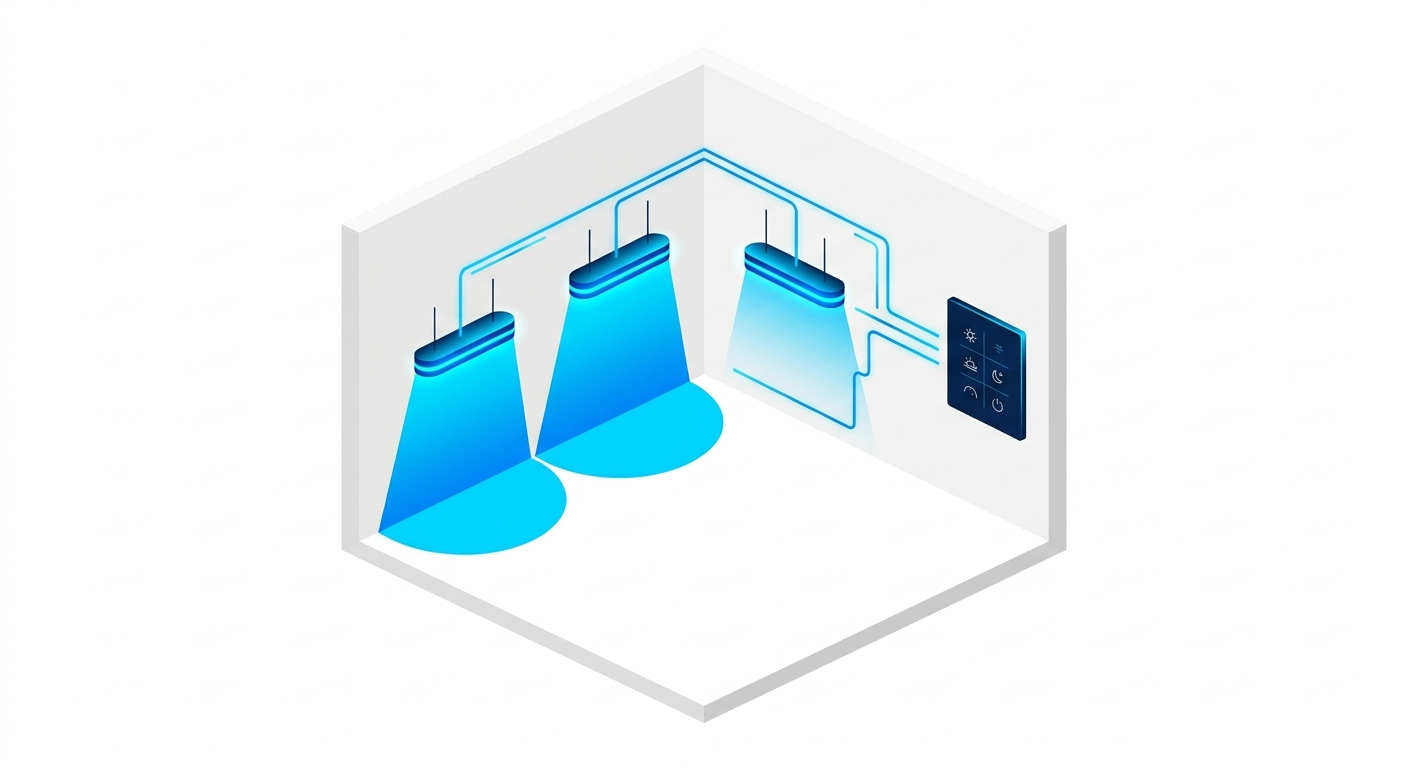
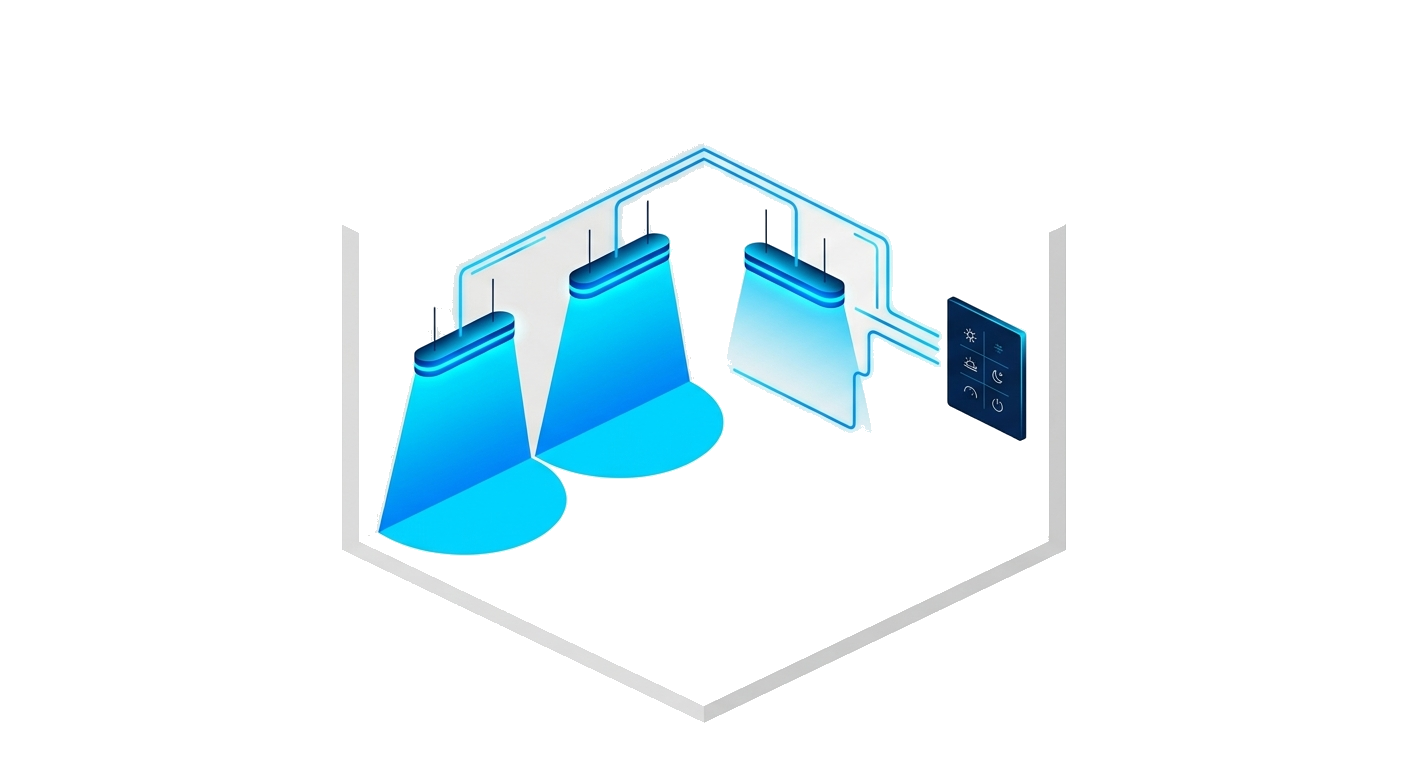
feat: add energy images, remove white backgrounds from cartoon illustrations

Changed region(s): [[0.25, 0.0938, 0.5, 0.7188], [0.5938, 0.5625, 0.625, 0.5938]]

diff --git a/scripts/remove_bg.py b/scripts/remove_bg.py
@@ -1,0 +1,73 @@
+#!/usr/bin/env python3
+"""Remove white/near-white backgrounds from cartoon PNG images via BFS flood-fill from edges."""
+
+import sys
+from pathlib import Path
+from collections import deque
+from PIL import Image
+import numpy as np
+
+TOLERANCE = 30  # 0-255: how far from pure white still counts as background
+
+def remove_white_bg(src: Path, dst: Path, tolerance: int = TOLERANCE) -> None:
+    img = Image.open(src).convert("RGBA")
+    w, h = img.size
+    data = np.array(img, dtype=np.uint8)
+
+    visited = np.zeros((h, w), dtype=bool)
+    to_clear = np.zeros((h, w), dtype=bool)
+
+    def is_bg(y: int, x: int) -> bool:
+        r, g, b = int(data[y, x, 0]), int(data[y, x, 1]), int(data[y, x, 2])
+        return r >= 255 - tolerance and g >= 255 - tolerance and b >= 255 - tolerance
+
+    queue: deque = deque()
+
+    def seed(y: int, x: int) -> None:
+        if not visited[y, x] and is_bg(y, x):
+            visited[y, x] = True
+            to_clear[y, x] = True
+            queue.append((y, x))
+
+    for x in range(w):
+        seed(0, x)
+        seed(h - 1, x)
+    for y in range(h):
+        seed(y, 0)
+        seed(y, w - 1)
+
+    while queue:
+        y, x = queue.popleft()
+        for dy, dx in ((-1, 0), (1, 0), (0, -1), (0, 1)):
+            ny, nx = y + dy, x + dx
+            if 0 <= ny < h and 0 <= nx < w:
+                seed(ny, nx)
+
+    data[to_clear, 3] = 0
+    Image.fromarray(data).save(dst, "PNG")
+    cleared = int(to_clear.sum())
+    total = w * h
+    print(f"  {src.name} → {dst.name}  ({cleared}/{total} px cleared, {cleared*100//total}%)")
+
+
+CARTOON_PNGS = [
+    "smart-interior.png",
+    "automated-access.png",
+    "network-rack.png",
+    "solar-panels.png",
+    "offgrid-power-system.png",
+    "smart-home-devices.jpg",  # will be converted to PNG
+]
+
+IMG_DIR = Path(__file__).parent.parent / "public" / "images"
+
+for name in CARTOON_PNGS:
+    src = IMG_DIR / name
+    if not src.exists():
+        print(f"  SKIP (not found): {name}")
+        continue
+    stem = Path(name).stem
+    dst = IMG_DIR / f"{stem}.png"
+    remove_white_bg(src, dst)
+
+print("Done.")